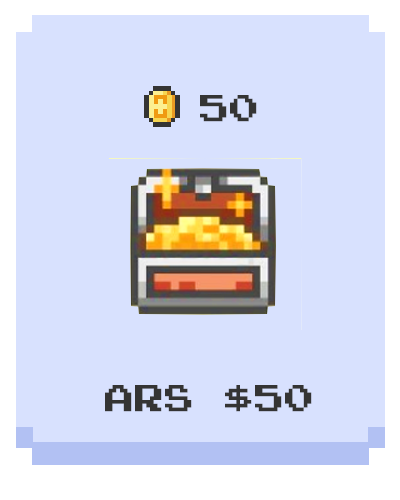
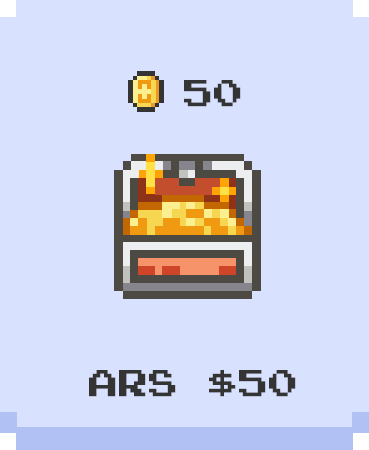
PlayScreen added

diff --git a/com_ricks_machine/lib/screens/token_screen.dart b/com_ricks_machine/lib/screens/token_screen.dart
@@ -25,7 +25,7 @@ class _TokenScreenState extends State<TokenScreen> {
                   child: IconButton(
                     onPressed: () {},
                     iconSize: 130,
-                    icon: Image.asset('assets/count_image.png'),
+                    icon: Image.asset('assets/count_withoutplus.png'),
                   ),
                 ),
                 SizedBox(width: 110,),
@@ -59,6 +59,7 @@ class _TokenScreenState extends State<TokenScreen> {
                 ),
               ],
             ),
+            SizedBox(height: 30,),
             Row(
               mainAxisAlignment: MainAxisAlignment.center,
               children: <Widget>[
@@ -70,7 +71,7 @@ class _TokenScreenState extends State<TokenScreen> {
                         child: IconButton(
                           onPressed: () {},
                           iconSize: 180,
-                          icon: Image.asset('assets/big_reward_button.png'),
+                          icon: Image.asset('assets/small_reward_button.png'),
                         ),
                       ),
                     ],
@@ -92,6 +93,7 @@ class _TokenScreenState extends State<TokenScreen> {
                 ),
               ],
             ),
+            SizedBox(height: 30,),
             Row(
               mainAxisAlignment: MainAxisAlignment.center,
               children: <Widget>[

diff --git a/com_ricks_machine/lib/screens/buttons_screen.dart b/com_ricks_machine/lib/screens/buttons_screen.dart
@@ -1,0 +1,44 @@
+import 'package:com_ricks_machine/screens/main_menu_screen.dart';
+import 'package:flutter/material.dart';
+
+class PlayScreen extends StatefulWidget {
+  const PlayScreen({Key? key}) : super(key: key);
+
+  @override
+  _PlayScreenState createState() => _PlayScreenState();
+}
+
+class _PlayScreenState extends State<PlayScreen> {
+  @override
+  Widget build(BuildContext context) {
+    return Scaffold(
+      backgroundColor: Color.fromRGBO(65, 71, 105, 5),
+      body: Center(
+        child: Column(
+          children:<Widget> [
+            SizedBox(height: 30,),
+            Row(
+              mainAxisAlignment: MainAxisAlignment.end,
+              children:<Widget> [
+                Container(
+                  child: Align(
+                    alignment: Alignment(0.2,0.82) ,
+                    child: IconButton(
+                      onPressed: () {
+                        Navigator.pushReplacement(context,
+                            MaterialPageRoute(builder: (context) => MainScreen())
+                        );
+                      },
+                      iconSize: 50,
+                      icon: Image.asset('assets/home_button.png'),
+                    ),
+                  ),
+                ),
+              ],
+            ),
+          ],
+        ),
+      ),
+    );
+  }
+}

diff --git a/com_ricks_machine/lib/screens/main_menu_screen.dart b/com_ricks_machine/lib/screens/main_menu_screen.dart
@@ -1,3 +1,4 @@
+import 'package:com_ricks_machine/screens/buttons_screen.dart';
 import 'package:com_ricks_machine/screens/setting_screen.dart';
 import 'package:com_ricks_machine/screens/token_screen.dart';
 import 'package:flutter/material.dart';
@@ -78,7 +79,11 @@ class _MainScreenState extends State<MainScreen> {
               child: Align(
                 alignment: Alignment(-0.01,-0.92) ,
                 child: IconButton(
-                  onPressed: () {  },
+                  onPressed: () {
+                    Navigator.pushReplacement(context,
+                        MaterialPageRoute(builder: (context) => PlayScreen())
+                    );
+                  },
                   iconSize: 200,
                   icon: Image.asset('assets/play_button.png'),
                 ),

diff --git a/com_ricks_machine/lib/screens/faqs_screen.dart b/com_ricks_machine/lib/screens/faqs_screen.dart
@@ -13,7 +13,7 @@ class _FaqsScreenState extends State<FaqsScreen> {
   Widget build(BuildContext context) {
     return Scaffold(
       backgroundColor: Color.fromRGBO(65, 71, 105, 5),
-      body: Center(
+      body: SingleChildScrollView(
         child: Column(
           children:<Widget> [
             SizedBox(height: 30,),
